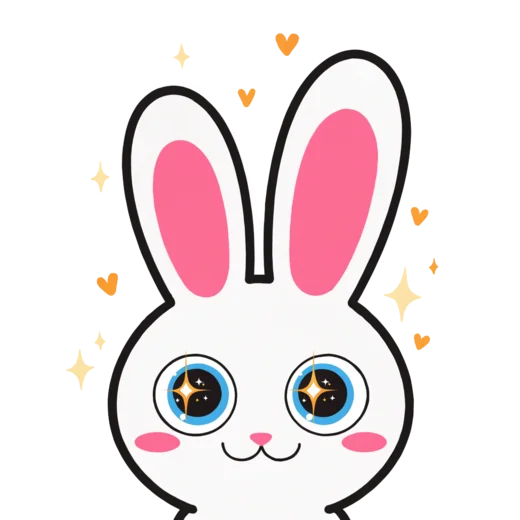
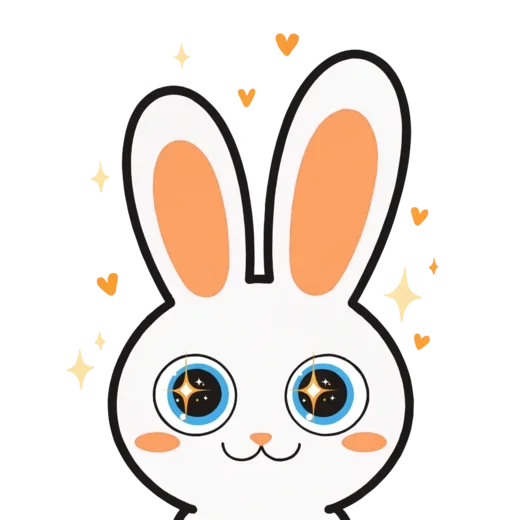
fix(examples): non-pink doodleday 1.0.1, token-only colours in doodleday and volt, image defaults (#109)

diff --git a/examples/themes/doodleday/assets/theme.css b/examples/themes/doodleday/assets/theme.css
@@ -144,11 +144,11 @@
 :where([data-hk-theme='doodleday']) body,body{background:var(--hk-color-background)}
 .dd-hero,.dd-section,.dd-story,.dd-benefits,.dd-club{max-width:1240px;margin-inline:auto;padding-inline:20px}
 .dd-h2{font-family:var(--hk-font-heading,inherit);font-size:clamp(26px,3.4vw,36px);line-height:1.15;margin:0;font-weight:700;color:var(--hk-color-text)}
-.dd-pink{color:var(--hk-color-primary)}
+.dd-accent{color:var(--hk-color-primary)}
 .dd-pill{display:inline-flex;align-items:center;justify-content:center;gap:8px;min-height:48px;padding:0 28px;border-radius:999px;font-size:19px;font-weight:700;text-decoration:none;border:2px solid transparent;transition:transform .15s ease,box-shadow .15s ease}
 .dd-pill:hover{transform:translateY(-2px)}
 .dd-pill:focus-visible,.dd-tab:focus-visible,.dd-more:focus-visible,.dd-ccard-link:focus-visible{outline:3px solid var(--hk-color-text);outline-offset:3px}
-.dd-pill-primary{background:var(--hk-color-primary);color:#fff;box-shadow:0 6px 0 rgba(25,25,25,.12)}
+.dd-pill-primary{background:var(--hk-color-primary);color:var(--hk-color-surface);box-shadow:0 6px 0 color-mix(in srgb,var(--hk-color-text) 12%,transparent)}
 .dd-pill-outline{background:var(--hk-color-surface);color:var(--hk-color-text);border-color:var(--hk-color-text)}
 .dd-pill-white{background:var(--hk-color-surface);color:var(--hk-color-text);min-height:44px;font-size:16px;padding:0 22px}
 .dd-more{display:inline-flex;align-items:center;gap:6px;min-height:44px;color:var(--hk-color-text);font-weight:700;text-decoration:none}
@@ -163,7 +163,7 @@
 .dd-point{display:flex;align-items:center;gap:10px;font-weight:600;font-size:15px;max-width:150px;line-height:1.3}
 .dd-hero-media{position:relative;border-radius:28px;overflow:hidden;background:var(--hk-color-secondary)}
 .dd-hero-media img{display:block;width:100%;height:100%;object-fit:cover}
-.dd-note{position:absolute;font-family:var(--hk-font-heading,inherit);font-weight:700;font-size:clamp(14px,1.6vw,20px);line-height:1.1;text-transform:uppercase;max-width:10ch;color:var(--hk-color-text);background:rgba(255,249,242,.85);padding:6px 10px;border-radius:12px}
+.dd-note{position:absolute;font-family:var(--hk-font-heading,inherit);font-weight:700;font-size:clamp(14px,1.6vw,20px);line-height:1.1;text-transform:uppercase;max-width:10ch;color:var(--hk-color-text);background:color-mix(in srgb,var(--hk-color-background) 85%,transparent);padding:6px 10px;border-radius:12px}
 .dd-note-1{inset-block-start:5%;inset-inline-start:5%;transform:rotate(-6deg)}
 .dd-note-2{inset-block-start:9%;inset-inline-end:5%;transform:rotate(5deg)}
 .dd-star,.dd-heart{position:absolute;display:inline-flex;color:var(--hk-color-text);animation:dd-float 5s ease-in-out infinite}
@@ -178,7 +178,7 @@
 .dd-head{display:flex;flex-wrap:wrap;align-items:center;justify-content:space-between;gap:12px;margin-bottom:18px}
 .dd-ccards{display:grid;grid-template-columns:repeat(3,1fr);gap:20px}
 .dd-ccard{border-radius:22px;overflow:hidden;position:relative}
-.dd-tone-pink{background:var(--hk-color-secondary)}.dd-tone-blue{background:var(--hk-color-blue)}.dd-tone-yellow{background:var(--hk-color-yellow)}
+.dd-tone-orange{background:var(--hk-color-secondary)}.dd-tone-blue{background:var(--hk-color-blue)}.dd-tone-yellow{background:var(--hk-color-yellow)}
 .dd-ccard-link{display:grid;grid-template-columns:1fr 1.15fr;align-items:end;min-height:260px;color:var(--hk-color-text);text-decoration:none}
 .dd-ccard-text{padding:22px;display:flex;flex-direction:column;gap:10px;align-self:stretch;justify-content:space-between}
 .dd-ccard-title{font-family:var(--hk-font-heading,inherit);font-size:clamp(28px,3vw,40px);line-height:1;margin:0;font-weight:800}
@@ -189,13 +189,13 @@
 .dd-ccard .dd-pill-white{align-self:flex-start}
 .dd-tabs{display:flex;flex-wrap:wrap;gap:6px}
 .dd-tab{display:inline-flex;align-items:center;min-height:44px;padding:0 16px;border-radius:999px;color:var(--hk-color-text);font-weight:600;text-decoration:none;font-size:15px}
-.dd-tab:first-child{background:var(--hk-color-primary);color:#fff}
+.dd-tab:first-child{background:var(--hk-color-primary);color:var(--hk-color-surface)}
 .dd-tab:not(:first-child):hover{background:var(--hk-color-gray)}
 .dd-grid{display:grid;grid-template-columns:repeat(5,1fr);gap:18px}
 .dd-grid .sf-card-media{border-radius:16px;overflow:hidden;background:var(--hk-color-gray)}
 .dd-grid .sf-card-title{font-size:15px;font-weight:700;margin:10px 0 4px}
 .dd-grid .sf-card-link{color:var(--hk-color-text);text-decoration:none}
-.dd-grid .sf-badge{background:var(--hk-color-primary);color:#fff}
+.dd-grid .sf-badge{background:var(--hk-color-primary);color:var(--hk-color-surface)}
 /* story */
 .dd-story{display:grid;grid-template-columns:auto 1fr;align-items:center;gap:28px;padding-block:36px}
 .dd-story-media{width:min(260px,40vw);border-radius:50%;overflow:hidden;background:var(--hk-color-surface);border:3px solid var(--hk-color-text)}
@@ -205,7 +205,7 @@
 .dd-benefit-list{display:grid;grid-template-columns:repeat(auto-fit,minmax(210px,1fr));gap:20px;margin:20px 0 0;padding:0;list-style:none}
 .dd-benefit{display:flex;gap:14px;align-items:center}
 .dd-benefit-icon{display:inline-flex;align-items:center;justify-content:center;flex:none;width:64px;height:64px;border-radius:50%;color:var(--hk-color-text)}
-.dd-benefit-icon.dd-tone-pink{background:var(--hk-color-surface)}
+.dd-benefit-icon.dd-tone-orange{background:var(--hk-color-surface)}
 .dd-benefit-title{font-size:17px;margin:0 0 2px;font-weight:700}.dd-benefit-text{font-size:14px;margin:0;line-height:1.4}
 /* reviews */
 .dd-reviews{display:grid;grid-template-columns:repeat(auto-fit,minmax(220px,1fr));gap:14px}
@@ -237,9 +237,9 @@
  .dd-club-media{display:none}
 }
 @media (prefers-reduced-motion:reduce){.dd-star,.dd-heart{animation:none}.dd-pill,.dd-ccard-media img{transition:none}}
-.dd-tab,.dd-tab:first-child{background:var(--hk-color-surface);color:var(--hk-color-text);border:1px solid rgba(25,25,25,.15)}
+.dd-tab,.dd-tab:first-child{background:var(--hk-color-surface);color:var(--hk-color-text);border:1px solid color-mix(in srgb,var(--hk-color-text) 15%,transparent)}
 .dd-tab:hover,.dd-tab:first-child:hover{background:var(--hk-color-secondary)}
-.dd-club-media{border-radius:50%;overflow:hidden;border:3px solid var(--hk-color-text);background:#fff;margin-block:0}
+.dd-club-media{border-radius:50%;overflow:hidden;border:3px solid var(--hk-color-text);background:var(--hk-color-surface);margin-block:0}
 @media (max-width:759px){
  .sf-header-bar{flex-wrap:wrap;row-gap:0;min-height:0;padding-block:6px 0}
  .sf-nav{order:5;flex:1 0 100%;flex-wrap:nowrap;overflow-x:auto;scrollbar-width:none;min-width:0;gap:0}
@@ -250,12 +250,12 @@
 /* ===== reference pass ===== */
 .dd-hero{max-width:1320px;padding-inline:16px;padding-block:8px 28px}
 .dd-hero-panel{position:relative;min-height:600px;border-radius:34px;overflow:hidden;background:color-mix(in srgb,var(--hk-color-secondary) 55%,var(--hk-color-background))}
-.dd-hero-panel::before,.dd-hero-panel::after{content:"";position:absolute;border-radius:999px;background:rgba(255,255,255,.55);z-index:0}
+.dd-hero-panel::before,.dd-hero-panel::after{content:"";position:absolute;border-radius:999px;background:color-mix(in srgb,var(--hk-color-surface) 55%,transparent);z-index:0}
 .dd-hero-panel::before{width:340px;height:170px;inset-block-start:-50px;inset-inline-start:30%}
 .dd-hero-panel::after{width:420px;height:200px;inset-block-end:-70px;inset-inline-start:-60px}
 .dd-hero-media{position:absolute;inset-block:0;inset-inline-end:0;width:60%;border-radius:0;background:none;z-index:1}
-.dd-hero-media img{object-position:center 20%;-webkit-mask-image:linear-gradient(to right,transparent 0,#000 24%);mask-image:linear-gradient(to right,transparent 0,#000 24%)}
-.dd-hero-media :dir(rtl),:dir(rtl) .dd-hero-media img{-webkit-mask-image:linear-gradient(to left,transparent 0,#000 24%);mask-image:linear-gradient(to left,transparent 0,#000 24%)}
+.dd-hero-media img{object-position:center 20%;-webkit-mask-image:linear-gradient(to right,transparent 0,var(--hk-color-text) 24%);mask-image:linear-gradient(to right,transparent 0,var(--hk-color-text) 24%)}
+.dd-hero-media :dir(rtl),:dir(rtl) .dd-hero-media img{-webkit-mask-image:linear-gradient(to left,transparent 0,var(--hk-color-text) 24%);mask-image:linear-gradient(to left,transparent 0,var(--hk-color-text) 24%)}
 .dd-hero-copy{position:relative;z-index:3;padding:56px 0 40px 44px;padding-inline:44px 0;max-width:62%}
 .dd-hero-title{font-size:clamp(60px,8.4vw,124px);line-height:.92;margin-block-end:20px}
 .dd-hero-title span{white-space:nowrap}
@@ -274,7 +274,7 @@
 .dd-ccard-link{grid-template-columns:1fr 1.3fr;min-height:300px}
 .dd-ccard-title{font-size:clamp(34px,3.6vw,54px);line-height:.95}
 .dd-ccard-text{padding:26px}
-.dd-tabs>:first-child .dd-tab{background:var(--hk-color-primary);color:#fff;border-color:var(--hk-color-primary)}
+.dd-tabs>:first-child .dd-tab{background:var(--hk-color-primary);color:var(--hk-color-surface);border-color:var(--hk-color-primary)}
 .sf-footer{background:color-mix(in srgb,var(--hk-color-secondary) 38%,var(--hk-color-background));color:var(--hk-color-text)}
 .sf-logo{font-size:32px;letter-spacing:-.01em}
 .sf-header-bar{min-height:76px;padding-inline:8px}
@@ -282,7 +282,7 @@
 @media (min-width:1024px){
  .sf-search-inline{display:block;width:240px}
  .sf-search-toggle{display:none}
- .sf-search-inline input{width:100%;min-height:44px;padding-inline:18px;border-radius:999px;border:1px solid rgba(25,25,25,.18);background:#fff;font:inherit}
+ .sf-search-inline input{width:100%;min-height:44px;padding-inline:18px;border-radius:999px;border:1px solid color-mix(in srgb,var(--hk-color-text) 18%,transparent);background:var(--hk-color-surface);font:inherit}
  .sf-search-inline form{margin:0}
 }
 @media (max-width:1023px){
@@ -308,14 +308,14 @@
 .sf-logo-img{height:56px;width:auto;max-width:none}
 .sf-logo-h-24,.sf-logo-h-32,.sf-logo-h-40,.sf-logo-h-48,.sf-logo-h-64{height:56px}
 .sf-icon-button{color:var(--hk-color-text)}
-.sf-cart-link .hk-cart-count,.sf-cart-link [class*=count]{background:var(--hk-color-primary);color:#fff}
+.sf-cart-link .hk-cart-count,.sf-cart-link [class*=count]{background:var(--hk-color-primary);color:var(--hk-color-surface)}
 .dd-grid .sf-card{position:relative}
 .dd-grid .sf-card-media{aspect-ratio:4/5}
 .dd-grid .sf-card-title{font-weight:600}
 .sf-footer .sf-footer-brand{font-family:var(--hk-font-heading,inherit);font-weight:800;font-size:26px}
 .dd-note-1{inset-inline-start:54%;inset-block-start:4%}.dd-star-3{inset-inline-end:38%}
 .dd-note-1{inset-block-start:2%;inset-inline-start:58%;max-width:9ch}.dd-hero-title span{position:relative;z-index:2}
-.dd-note{background:rgba(255,249,242,.92);padding:6px 12px;border-radius:12px}.dd-note-1{inset-block-start:4%;inset-inline-start:49%;max-width:11ch;transform:rotate(-4deg)}.dd-star-3{display:none}
+.dd-note{background:color-mix(in srgb,var(--hk-color-background) 92%,transparent);padding:6px 12px;border-radius:12px}.dd-note-1{inset-block-start:4%;inset-inline-start:49%;max-width:11ch;transform:rotate(-4deg)}.dd-star-3{display:none}
 
 /* ===== product page ===== */
 .sf-product{max-width:1240px;margin-inline:auto;padding-inline:20px;gap:40px}
@@ -323,9 +323,9 @@
 .sf-product-info{display:flex;flex-direction:column;gap:18px}
 .sf-product-info h1,.sf-product-info [class*=heading]{font-family:var(--hk-font-heading,inherit);font-weight:800;line-height:1.05}
 .sf-price-row{font-size:24px;font-weight:800}
-.sf-product-info .sf-badge{background:var(--hk-color-primary);color:#fff}
-.dd-acc{border-block-start:1px solid rgba(25,25,25,.14)}
-.dd-acc:last-of-type{border-block-end:1px solid rgba(25,25,25,.14)}
+.sf-product-info .sf-badge{background:var(--hk-color-primary);color:var(--hk-color-surface)}
+.dd-acc{border-block-start:1px solid color-mix(in srgb,var(--hk-color-text) 14%,transparent)}
+.dd-acc:last-of-type{border-block-end:1px solid color-mix(in srgb,var(--hk-color-text) 14%,transparent)}
 .dd-acc-head{display:flex;align-items:center;justify-content:space-between;gap:12px;min-height:52px;font-weight:700;font-size:17px;cursor:pointer;list-style:none}
 .dd-acc-head::-webkit-details-marker{display:none}
 .dd-acc[open] .dd-acc-head svg{transform:rotate(180deg)}
@@ -335,7 +335,7 @@
 @media (min-width:1024px){.sf-product-info{position:sticky;top:96px;align-self:start}}
 @media (max-width:640px){
  .sf-product{padding-inline:14px;gap:20px}
- .sf-product-info [class*=add-to-cart],.sf-product-info .sf-buy{position:sticky;inset-block-end:0;z-index:20;background:var(--hk-color-background);padding-block:10px;box-shadow:0 -8px 16px -12px rgba(25,25,25,.25)}
+ .sf-product-info [class*=add-to-cart],.sf-product-info .sf-buy{position:sticky;inset-block-end:0;z-index:20;background:var(--hk-color-background);padding-block:10px;box-shadow:0 -8px 16px -12px color-mix(in srgb,var(--hk-color-text) 25%,transparent)}
 }
 @media (max-width:640px){.sf-logo-img,.sf-logo-h-24,.sf-logo-h-32,.sf-logo-h-40,.sf-logo-h-48,.sf-logo-h-64{height:44px}}
 
@@ -344,18 +344,18 @@
 .sf-collection-head h1::after{content:"\2726";color:var(--hk-color-primary);font-size:.5em;margin-inline-start:10px;vertical-align:.45em}
 .sf-toolbar{display:flex;align-items:center;gap:8px;overflow-x:auto;scrollbar-width:none;flex-wrap:nowrap;padding-bottom:4px}
 .sf-toolbar::-webkit-scrollbar{display:none}
-.sf-toolbar .sf-chip{flex:none;white-space:nowrap;min-height:44px;display:inline-flex;align-items:center;border-radius:999px;padding-inline:16px;background:var(--hk-color-surface);color:var(--hk-color-text);border:1px solid rgba(25,25,25,.15);text-decoration:none;font-weight:600}
-.sf-toolbar .sf-chip[aria-current=true]{background:var(--hk-color-text);color:#fff;border-color:var(--hk-color-text)}
+.sf-toolbar .sf-chip{flex:none;white-space:nowrap;min-height:44px;display:inline-flex;align-items:center;border-radius:999px;padding-inline:16px;background:var(--hk-color-surface);color:var(--hk-color-text);border:1px solid color-mix(in srgb,var(--hk-color-text) 15%,transparent);text-decoration:none;font-weight:600}
+.sf-toolbar .sf-chip[aria-current=true]{background:var(--hk-color-text);color:var(--hk-color-surface);border-color:var(--hk-color-text)}
 .sf-toolbar .sf-chip:hover{background:var(--hk-color-secondary);color:var(--hk-color-text)}
-.sf-filters>summary{display:inline-flex;align-items:center;min-height:44px;padding-inline:16px;border-radius:999px;border:1px solid rgba(25,25,25,.15);background:var(--hk-color-surface);font-weight:600;cursor:pointer;list-style:none}
+.sf-filters>summary{display:inline-flex;align-items:center;min-height:44px;padding-inline:16px;border-radius:999px;border:1px solid color-mix(in srgb,var(--hk-color-text) 15%,transparent);background:var(--hk-color-surface);font-weight:600;cursor:pointer;list-style:none}
 .sf-filters>summary::-webkit-details-marker{display:none}
 main h1,.sf-cart-title{font-family:var(--hk-font-heading);font-weight:800;line-height:1.1}
 .sn-cart-list{display:grid;gap:0}
-.sn-cart-item{padding-block:16px;border-bottom:1px solid rgba(25,25,25,.1);align-items:center}
-.sn-cart-item-image{width:96px;height:96px;border-radius:14px;object-fit:cover;background:var(--hk-color-gray);border:1px solid rgba(25,25,25,.08)}
+.sn-cart-item{padding-block:16px;border-bottom:1px solid color-mix(in srgb,var(--hk-color-text) 10%,transparent);align-items:center}
+.sn-cart-item-image{width:96px;height:96px;border-radius:14px;object-fit:cover;background:var(--hk-color-gray);border:1px solid color-mix(in srgb,var(--hk-color-text) 8%,transparent)}
 .sn-cart-item-title{font-family:var(--hk-font-heading);font-weight:700;color:var(--hk-color-text);text-decoration:none}
 .sn-cart-item-price{font-weight:700}
-.sn-cart-item-qty{border-radius:999px;border:1px solid rgba(25,25,25,.18);background:var(--hk-color-surface);overflow:hidden}
+.sn-cart-item-qty{border-radius:999px;border:1px solid color-mix(in srgb,var(--hk-color-text) 18%,transparent);background:var(--hk-color-surface);overflow:hidden}
 .sn-cart-item-qty-btn{min-width:44px;min-height:44px;font-weight:700;color:var(--hk-color-text)}
 .sn-cart-item-qty-value{min-width:28px;text-align:center;font-weight:700}
 .sn-cart-item-remove{min-width:44px;min-height:44px;color:var(--hk-color-text)}

diff --git a/examples/themes/volt/assets/theme.css b/examples/themes/volt/assets/theme.css
@@ -342,7 +342,7 @@
 }
 
 /* 1.1.0 storefront refresh: compact sidebar, banner, toolbar, help card */
-.vt-side-ic { display: inline-flex; flex: none; align-items: center; justify-content: center; width: 20px; height: 20px; color: var(--hk-color-muted, #6b7280); }
+.vt-side-ic { display: inline-flex; flex: none; align-items: center; justify-content: center; width: 20px; height: 20px; color: var(--hk-color-muted); }
 .vt-side-ic .vt-ic-def:not(:last-child) { display: none; }
 .vt-side-name { flex: 1; min-width: 0; }
 .vt-side-list { list-style: none; margin: 0; padding: 0; display: grid; gap: 2px; }
@@ -357,11 +357,11 @@
 .vt-support { display: grid; gap: 8px; justify-items: start; margin-top: 16px; padding: 16px; border: 1px solid var(--hk-color-line); border-radius: 12px; background: var(--hk-color-soft); }
 .vt-support-ic { color: var(--vt-blue); }
 .vt-support-title { margin: 0; font-size: 15px; font-weight: 700; }
-.vt-support-text { margin: 0; font-size: 13px; color: var(--hk-color-muted, #6b7280); }
+.vt-support-text { margin: 0; font-size: 13px; color: var(--hk-color-muted); }
 .vt-support-btn { display: inline-flex; align-items: center; justify-content: center; gap: 6px; width: 100%; min-height: 44px; border-radius: 8px; border: 1px solid var(--hk-color-line); background: var(--hk-color-surface); font-size: 14px; font-weight: 600; }
 .vt-support-wa { border-color: var(--vt-blue); color: var(--vt-blue); }
 .vt-banner { display: grid; gap: 6px; margin-bottom: 16px; padding: 20px; border: 1px solid var(--hk-color-line); border-radius: 12px; background: var(--hk-color-soft); text-align: start; }
-.vt-crumbs { display: flex; flex-wrap: wrap; gap: 6px; font-size: 13px; color: var(--hk-color-muted, #6b7280); }
+.vt-crumbs { display: flex; flex-wrap: wrap; gap: 6px; font-size: 13px; color: var(--hk-color-muted); }
 .vt-crumbs a:hover { color: var(--vt-blue); }
 .vt-toolbar { justify-content: flex-start; margin-bottom: 12px; }
 .vt-sort { position: relative; }
@@ -376,7 +376,7 @@
   .vt-shop-true .vt-side { position: fixed; inset-block: 0; inset-inline-start: 0; z-index: 60; width: min(320px, 86vw); max-width: none; overflow-y: auto; padding: 16px; border-radius: 0; background: var(--hk-color-surface); transform: translateX(110%); visibility: hidden; transition: transform 0.2s; }
   [dir='ltr'] .vt-shop-true .vt-side { transform: translateX(-110%); }
   .vt-shop-true .vt-side:target { transform: none; visibility: visible; }
-  .vt-side:target ~ .vt-side-backdrop { display: block; position: fixed; inset: 0; z-index: 55; background: rgba(0, 0, 0, 0.4); }
+  .vt-side:target ~ .vt-side-backdrop { display: block; position: fixed; inset: 0; z-index: 55; background: color-mix(in srgb, var(--hk-color-text) 40%, transparent); }
   .vt-side-close { display: inline-flex; align-items: center; justify-content: center; width: 44px; height: 44px; }
   .vt-side-list { display: grid; }
   .vt-shop-true .vt-side-list { flex-wrap: nowrap; }

diff --git a/examples/themes/doodleday/README.md b/examples/themes/doodleday/README.md
@@ -1,6 +1,6 @@
 # DoodleDay
 
-A cartoon streetwear store theme: cream and pink panels, pastel collection cards, a bold hero with a bunny mascot, and a product page with collapsible fabric, size, shipping and returns sections. Arabic first (RTL) with English.
+A cartoon streetwear store theme: cream and orange panels, pastel collection cards, a bold hero with a bunny mascot, and a product page with collapsible fabric, size, shipping and returns sections. Arabic first (RTL) with English.
 
 ## Pages
 
@@ -12,7 +12,6 @@ All seven page types are present: `index`, `product`, `collection`, `search`, `c
 
 ## Notes
 
-- Brand pink and lavender are used on purpose for this theme.
 - `reviews` renders nothing until you add real reviews.
 - The club band links to a page; the theme tags have no email form.
 - The size guide, shipping and returns accordions stay hidden until their text is filled in.
